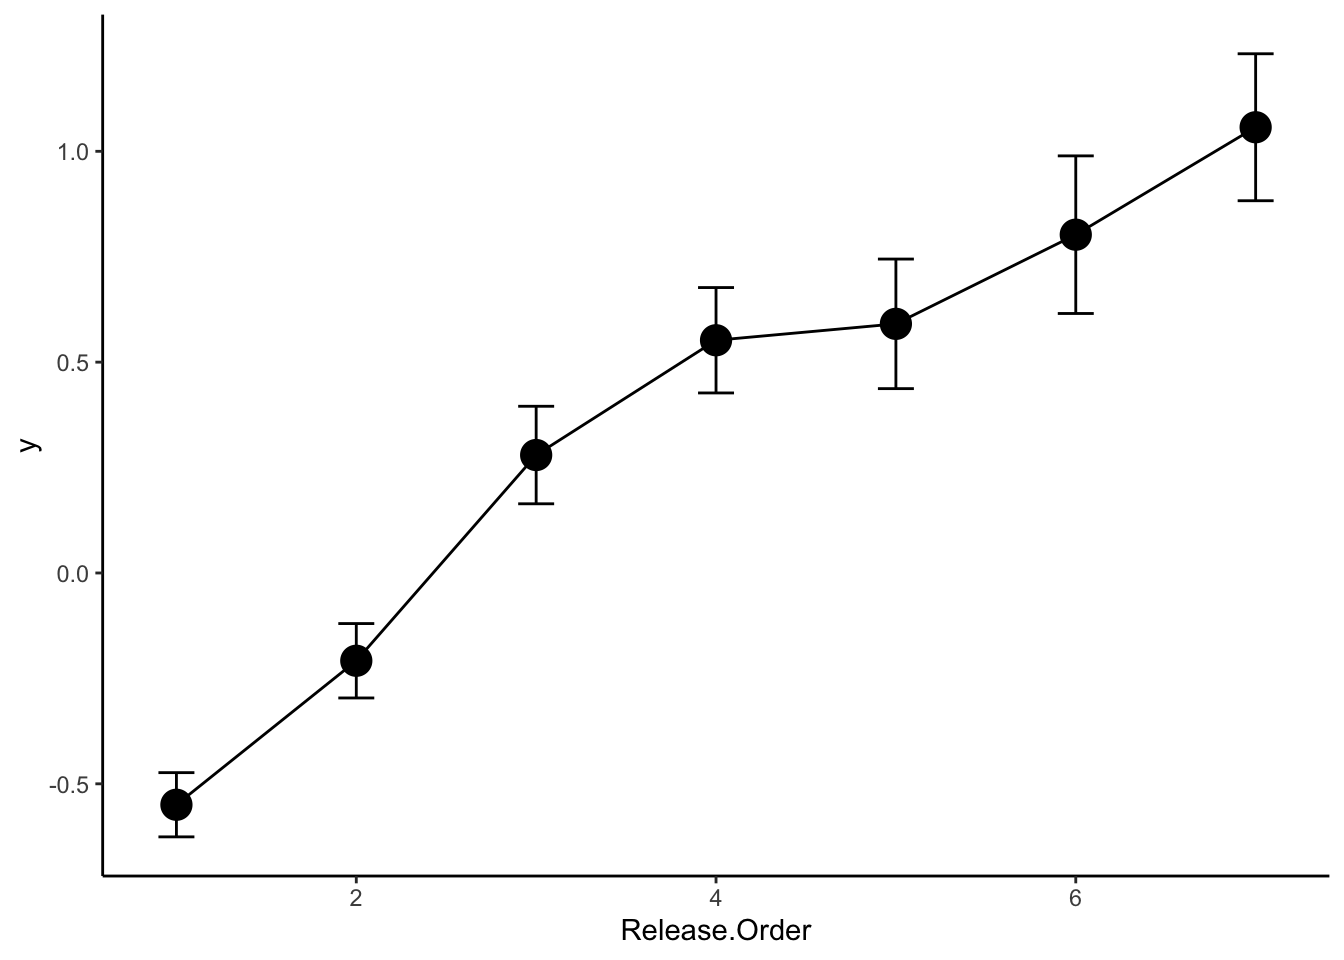
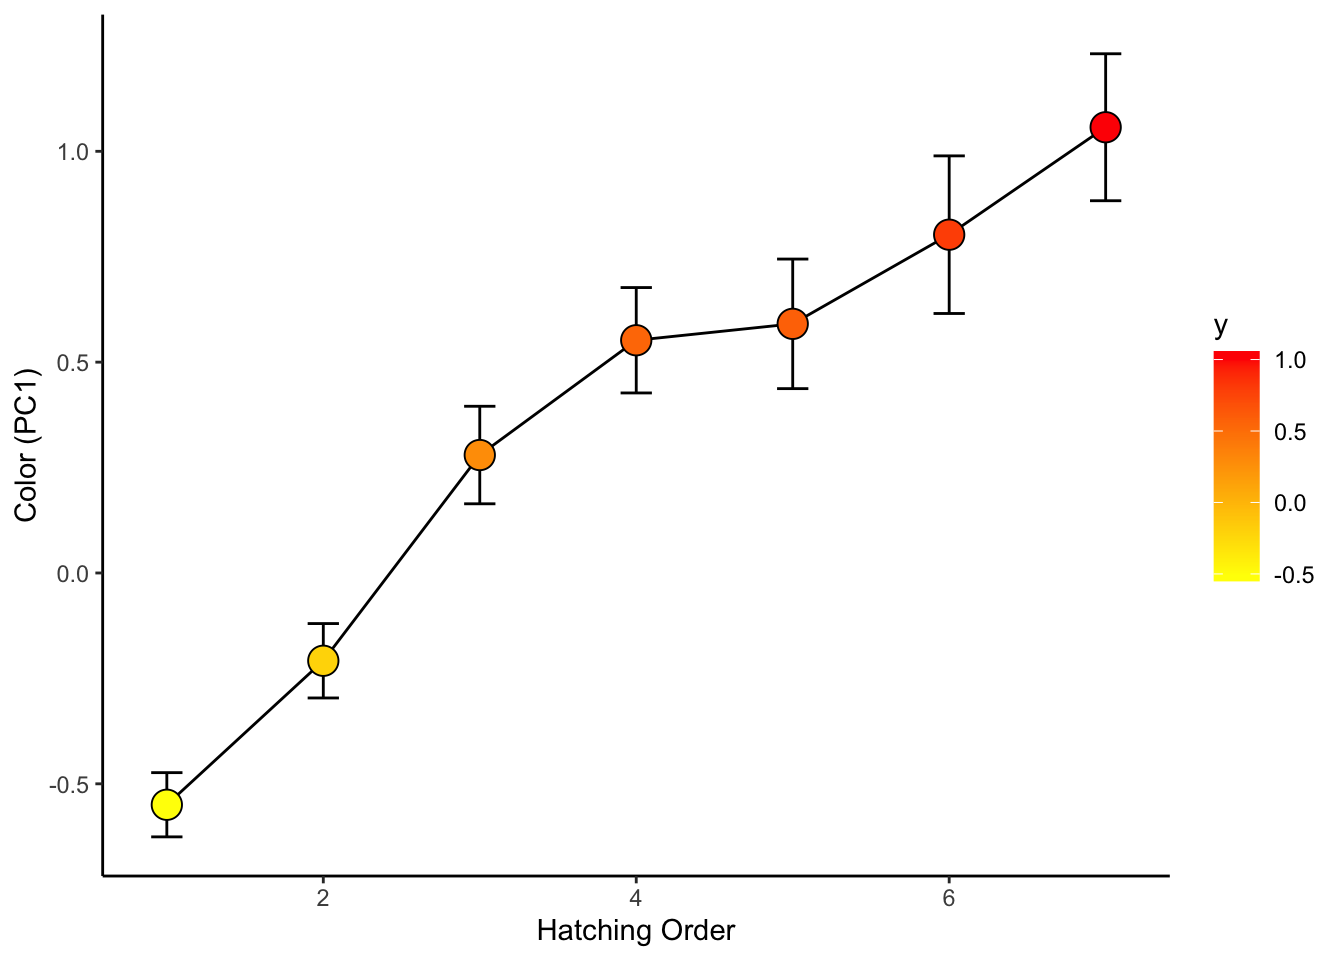
coot module update

diff --git a/Example_CootDataWrangling.html b/Example_CootDataWrangling.html
@@ -630,11 +630,14 @@ class="section level2">
 <pre class="r"><code>sum.dat=use.dat2 %&gt;%
   group_by(Release.Order) %&gt;%
   summarise(mean_se(pc1))</code></pre>
-<pre class="r"><code>ggplot(sum.dat, aes(x=Release.Order, y=y)) +
-  geom_point(size=5) +
+<pre class="r"><code>ggplot(sum.dat, aes(x=Release.Order, y=y, fill=y)) +
   geom_path() +
   geom_errorbar(aes(ymax=ymax, ymin=ymin), width=0.2) +
-  theme_classic()</code></pre>
+  geom_point(size=5, pch=21) +
+  scale_fill_gradient(low=&quot;yellow&quot;, high=&quot;red&quot;) +
+  theme_classic() +
+  ylab(&quot;Color (PC1)&quot;) +
+  xlab(&quot;Hatching Order&quot;)</code></pre>
 <p><img src="Example_CootDataWrangling_files/figure-html/unnamed-chunk-23-1.png" width="672" />
 #####</p>
 </div>
